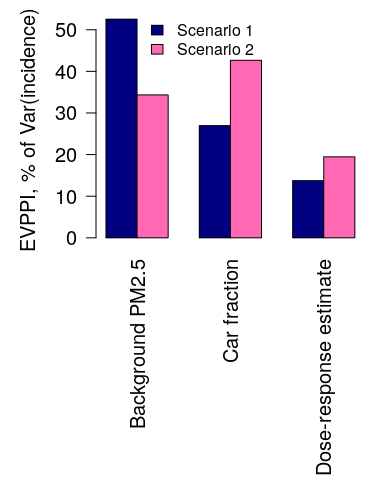
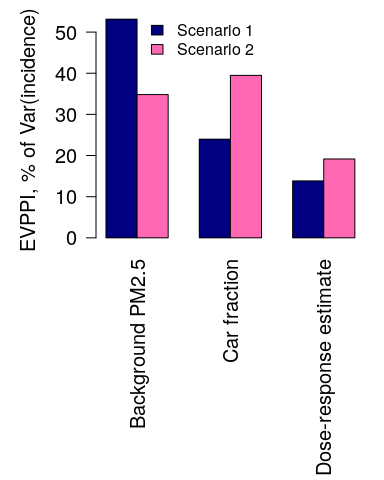
horizontal rule

diff --git a/README.md b/README.md
@@ -59,15 +59,16 @@ EVPPI result
 
 |                        |  Scenario 1|  Scenario 2|
 |------------------------|-----------:|-----------:|
-| Background PM2.5       |        52.5|        34.3|
-| Car fraction           |        27.0|        42.7|
-| Dose-response estimate |        13.7|        19.5|
+| Background PM2.5       |        53.1|        34.8|
+| Car fraction           |        24.0|        39.5|
+| Dose-response estimate |        13.8|        19.2|
 
 ![](README_files/figure-markdown_github/plot-1.png)
 
 So, learning the background PM2.5 concentration better would most increase precision for our estimate under a car decrease scenario. Learning the car fraction of background PM2.5 concentration better would most increase precision for our estimate under a car increase scenario.
 
-<hr>
+------------------------------------------------------------------------
+
 Model details
 =============
 
